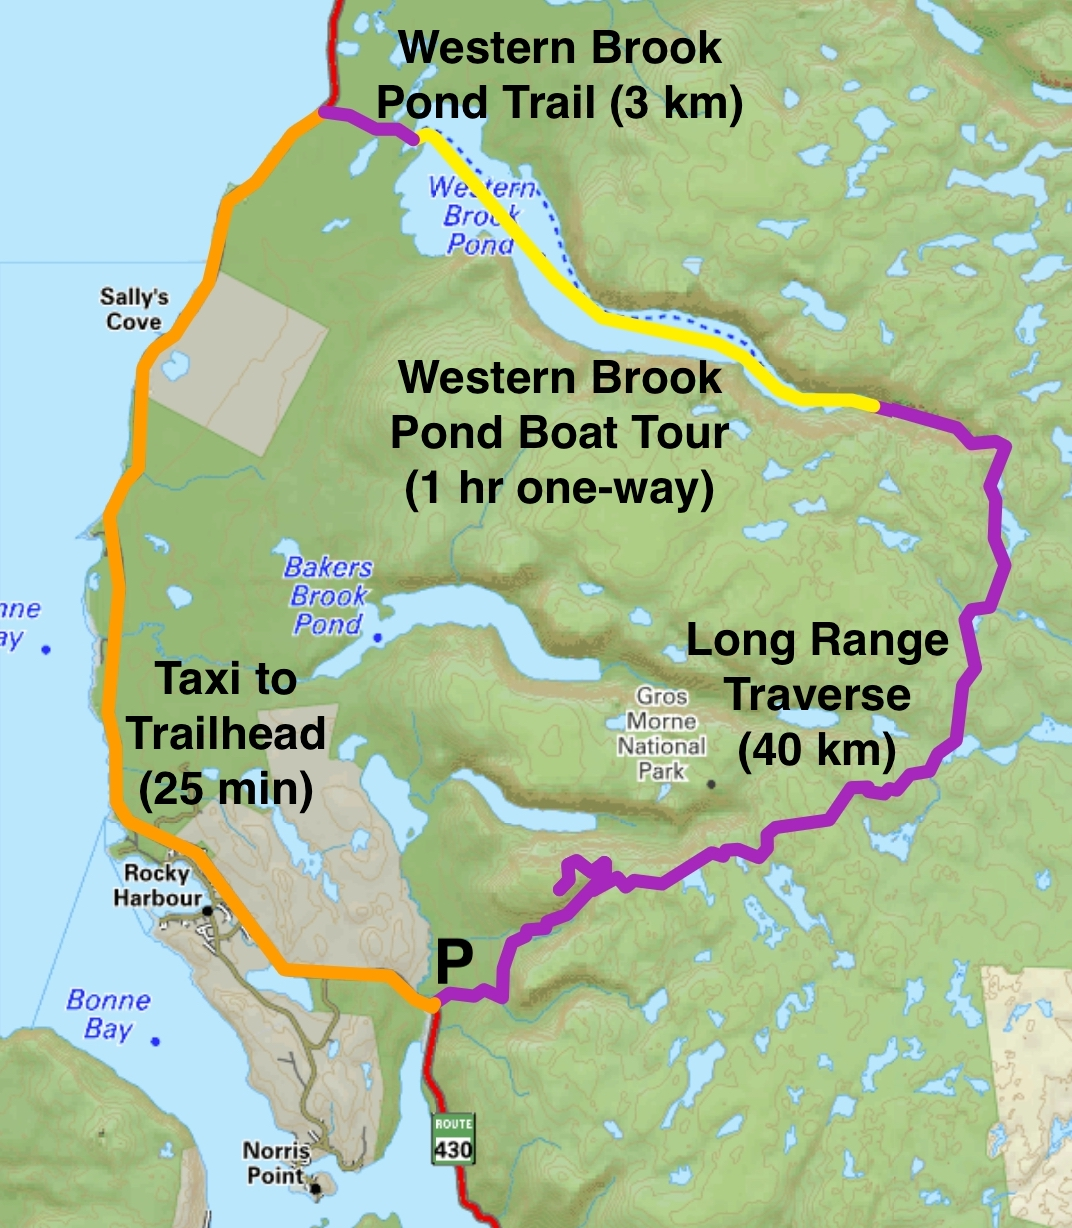
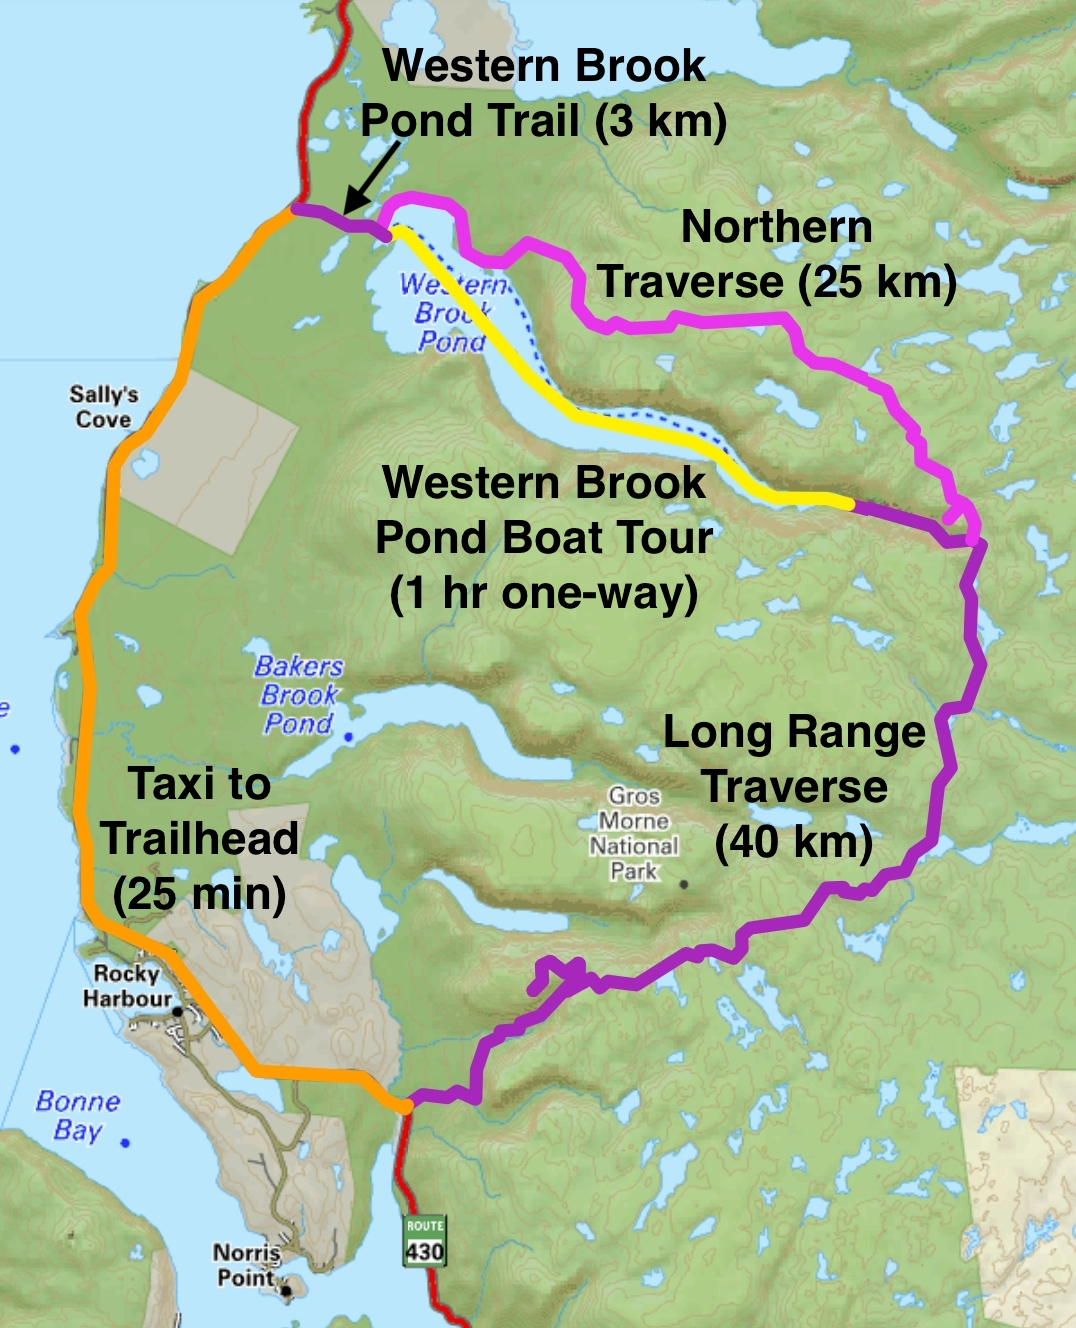
better maps

diff --git a/guide/screens/gros_morne/index.html b/guide/screens/gros_morne/index.html
@@ -141,7 +141,7 @@
 
 							<h3 class="softblack">Northern Traverse and Long Range Traverse</h3>
 
-							<p>The Northern Traverse is an optional extension of the Long Range Traverse, approximately doubling its length. It is a route that connects the Western Brook Pond Trail to the Long Range Traverse by going around Western Brook Pond. This extension unfortunately makes the boat tour unnecessary. The Northern Traverse is beautiful, but some sections can be even more strenuous than the Long Range Traverse. Many get lost in the large swaths of tuckamore, dense short coniferous forest.</p>
+							<p>The Northern Traverse is a significant extension of the Long Range Traverse. It is a route that connects the Western Brook Pond Trail to the Long Range Traverse by going around Western Brook Pond. This extension unfortunately makes the boat tour unnecessary. The Northern Traverse is beautiful, but some sections can be even more strenuous than the Long Range Traverse. Many get lost in the large swaths of tuckamore, dense short coniferous forest.</p>
 
 							<h2 id="myJourney">My Journey <button class="small" onclick="window.scrollTo({top: 0, behavior: 'smooth'})">Top</button></h2>
 
